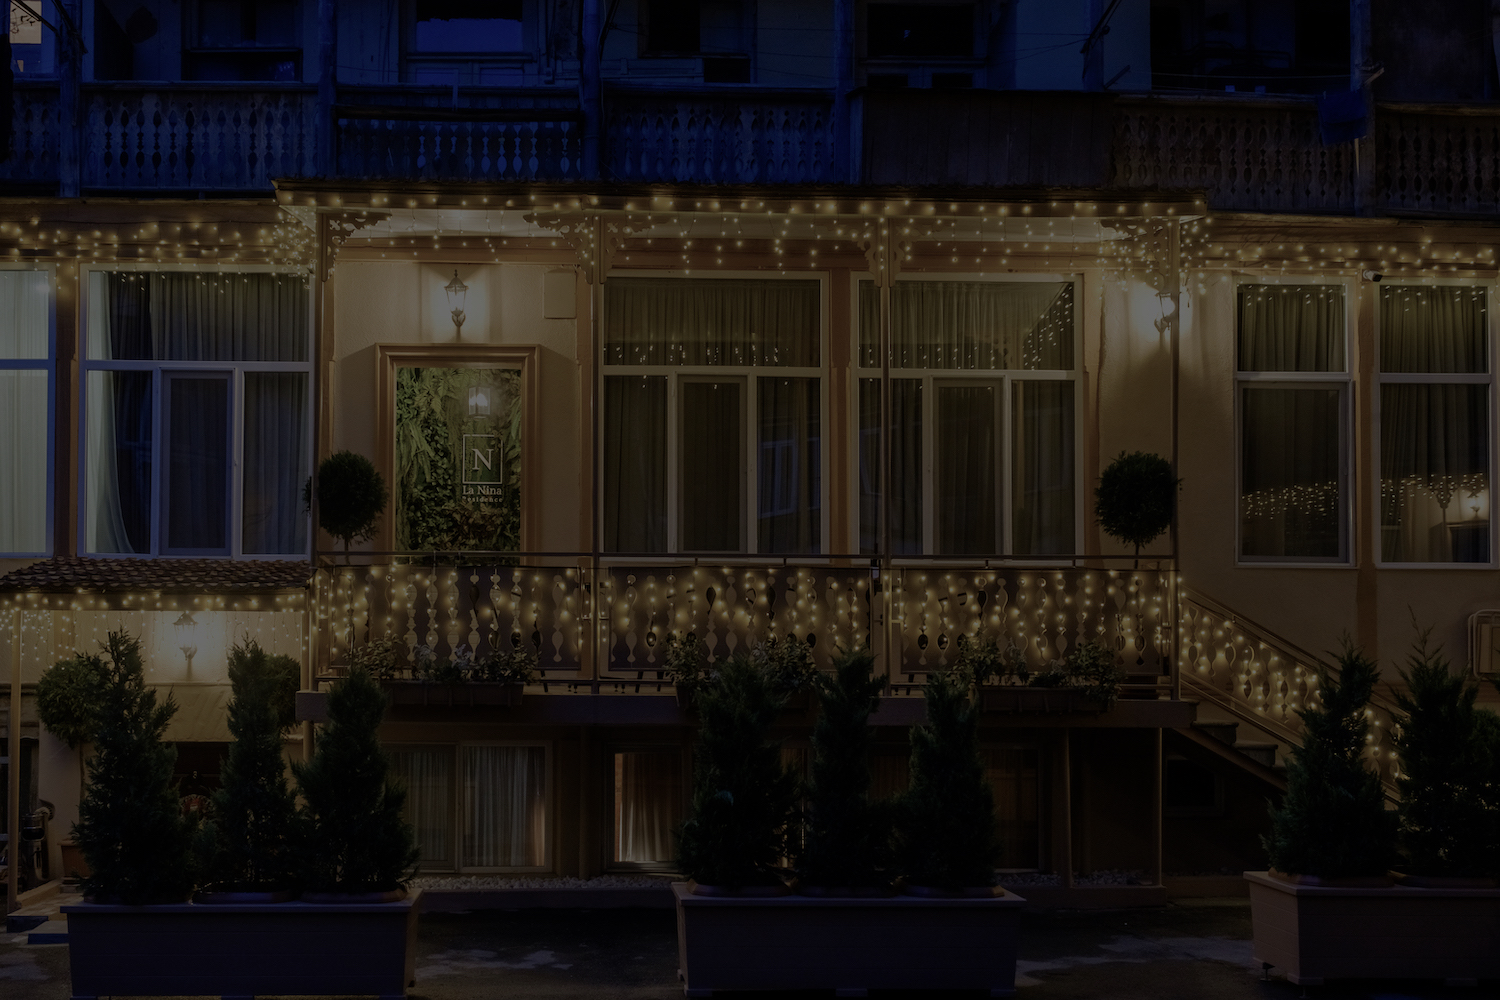
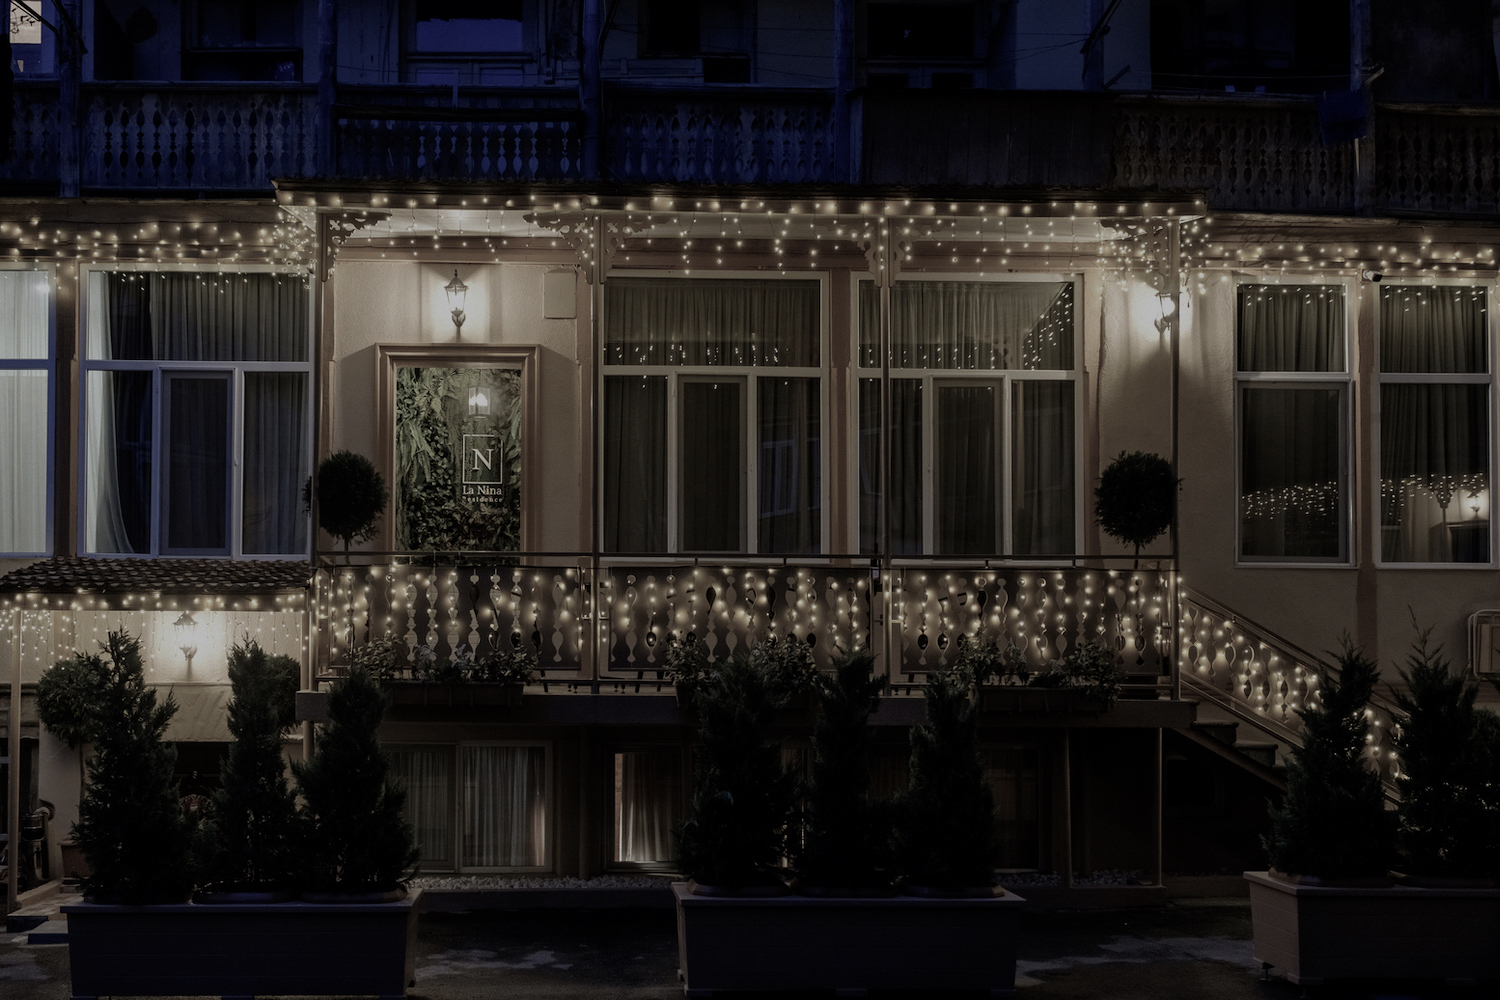
fixed sololaki cover

diff --git a/src/pages/Sololaki/style.js b/src/pages/Sololaki/style.js
@@ -3,6 +3,7 @@
 import { scaleSololakiBanner, zoomInB, letterSpacingIn, verticalMove } from '../../animations'
 
 import COVER_JPG from '../../assets/images/sololaki/sololaki.jpg'
+import COVER2_JPG from '../../assets/images/sololaki/coverMobile.jpg'
 import { cream } from '../../colors'
 
 export const styleBanner = {
@@ -12,7 +13,7 @@ export const styleBanner = {
   overflow: 'hidden',
 
   '> span': {
-    backgroundImage: 'linear-gradient(rgba(42, 81, 61, .5), rgba(42, 81, 61, .5)), url(' + COVER_JPG + ')',
+    backgroundImage: 'linear-gradient(rgba(42, 81, 61, .5), rgba(42, 81, 61, .8)), url(' + COVER_JPG + ')',
     backgroundSize: 'cover',
     flex: 1,
     animationName: scaleSololakiBanner,
@@ -20,10 +21,16 @@ export const styleBanner = {
     animationTimingFunction: 'ease-in-out',
     backgroundAttachment: 'fixed',
     transition: 'all 1s ease-in-out',
+    backgroundRepeat: 'no-repeat',
+    '@media only screen and (min-width: 1225px)': {
+      '&:hover': {
+        backgroundPosition: 'center center',
+        transition: 'all 2s ease-in-out'
+      }
+    },
 
-    '&:hover': {
-      backgroundPosition: 'center center',
-      transition: 'all 2s ease-in-out'
+    '@media only screen and (max-width: 480px)': {
+      // backgroundImage: 'linear-gradient(rgba(42, 81, 61, .5), rgba(42, 81, 61, .8)), url(' + COVER2_JPG + ')',
     }
   },
   '> caption': {
@@ -56,16 +63,17 @@ export const styleBanner = {
   },
   '> p': {
     position: 'absolute',
-    top: '52%',
+    top: '50%',
     left: '50%',
     pointerEvents: 'none',
-    color: 'rgba(168, 98, 63, .65)',
+    color: 'rgba(168, 98, 63, .85)',
     fontSize: `${18 / 16}em`,
     fontFamily: 'DejaVu Sans',
     animationName: verticalMove,
     animationDuration: '1.5s',
     animationTimingFunction: 'ease-in-out',
     whiteSpace: 'nowrap',
+    fontStyle: 'italic',
     '@media only screen and (max-width: 1024px)': {
       transform: 'translate(-50%, -50%)'
     },

diff --git a/src/animations/index.js b/src/animations/index.js
@@ -28,6 +28,37 @@ export const coverLogoAnimation = keyframes`
     transform: translate(-50%, -50%) scale(1.4);
   }
 `
+export const zoomInB = keyframes`
+  from {
+    opacity: 0;
+    transform: scale(.95) translate(-50%, -50%);
+
+  }
+  to {
+    transform: scale(1) translate(-50%, -50%);
+    opacity: 1;
+  }
+`
+export const verticalMove = keyframes`
+  from {
+   left: 53%;
+   opacity: 0;
+  }
+  to {
+    left: 50%;
+   opacity: 1;
+  }
+`
+
+export const scaleSololakiBanner = keyframes`
+  from {
+   transform: scale(1.2);
+
+  }
+  to {
+    transform: scale(1);
+  }
+`
 // export const zoomOutLanding = keyframes`
 //   from {
 //     transform: scale(1.1);
@@ -96,17 +127,6 @@ export const coverLogoAnimation = keyframes`
 //   }
 // `
 
-// export const zoomInB = keyframes`
-//   from {
-//     opacity: 0;
-//     transform: scale(.95) translate(-50%, -50%);
-
-//   }
-//   to {
-//     transform: scale(1) translate(-50%, -50%);
-//     opacity: 1;
-//   }
-// `
 // export const zoomOutB = keyframes`
 //   from {
 //     transform: scale(1.05);
@@ -163,17 +183,6 @@ export const coverLogoAnimation = keyframes`
 // `
 
 // // Sololaki page animations
-
-// export const scaleSololakiBanner = keyframes`
-//   from {
-//    transform: scale(1.2);
-//    filter: grayscale(50%) brightness(0%);
-//   }
-//   to {
-//     transform: scale(1);
-//     filter: grayscale(70%) brightness(60%)
-//   }
-// `
 
 // export const scaleOpacitySololakiBannerHeading = keyframes`
 //   from {

diff --git a/src/components/Header/style.js b/src/components/Header/style.js
@@ -16,7 +16,6 @@ const styleCheck = {
 const styleMenuIcon = {
   cursor: 'pointer',
   transition: 'all .2s linear',
-  background: 'radial-gradient(rgba(244, 233, 217, 0), rgba(244, 233, 217, 0))',
   borderRadius: '100%',
   '&:hover > div': { opacity: 1 },
   '> div': {
@@ -46,7 +45,6 @@ const styleCall = {
   display: 'block',
   borderRadius: '100%',
   background: 'radial-gradient(rgba(244, 233, 217, 0), rgba(244, 233, 217, 0))',
-  border: '1.5px solid rgba(244, 233, 217, 0)',
   transition: 'all .2s ease-in-out',
   position: 'relative',
 
@@ -80,16 +78,17 @@ export default {
   top: '0px',
   zIndex: 1000,
   boxSizing: 'border-box',
-  // mixBlendMode: 'difference',
-  backdropFilter: 'blur(2px)',
+  mixBlendMode: 'difference',
+  padding: `30px 0`,
 
   '@media only screen and (max-width: 768px)': {
     gap: '0px',
     justifyContent: 'space-between',
-    padding: '60px 60px'
+    padding: `30px 10px`
+    // padding: '60px 60px'
   },
   '@media only screen and (max-width: 480px)': {
-    padding: '60px 10px'
+    // padding: '60px 10px'
 
   },
 

diff --git a/src/components/Header/index.js b/src/components/Header/index.js
@@ -105,8 +105,7 @@ export default {
   proto: [Block, Flex],
   props: {
     flexAlign: 'center center',
-    gap: 'E',
-    padding: 'C 0 A 0'
+    gap: 'E'
   },
 
   check,
